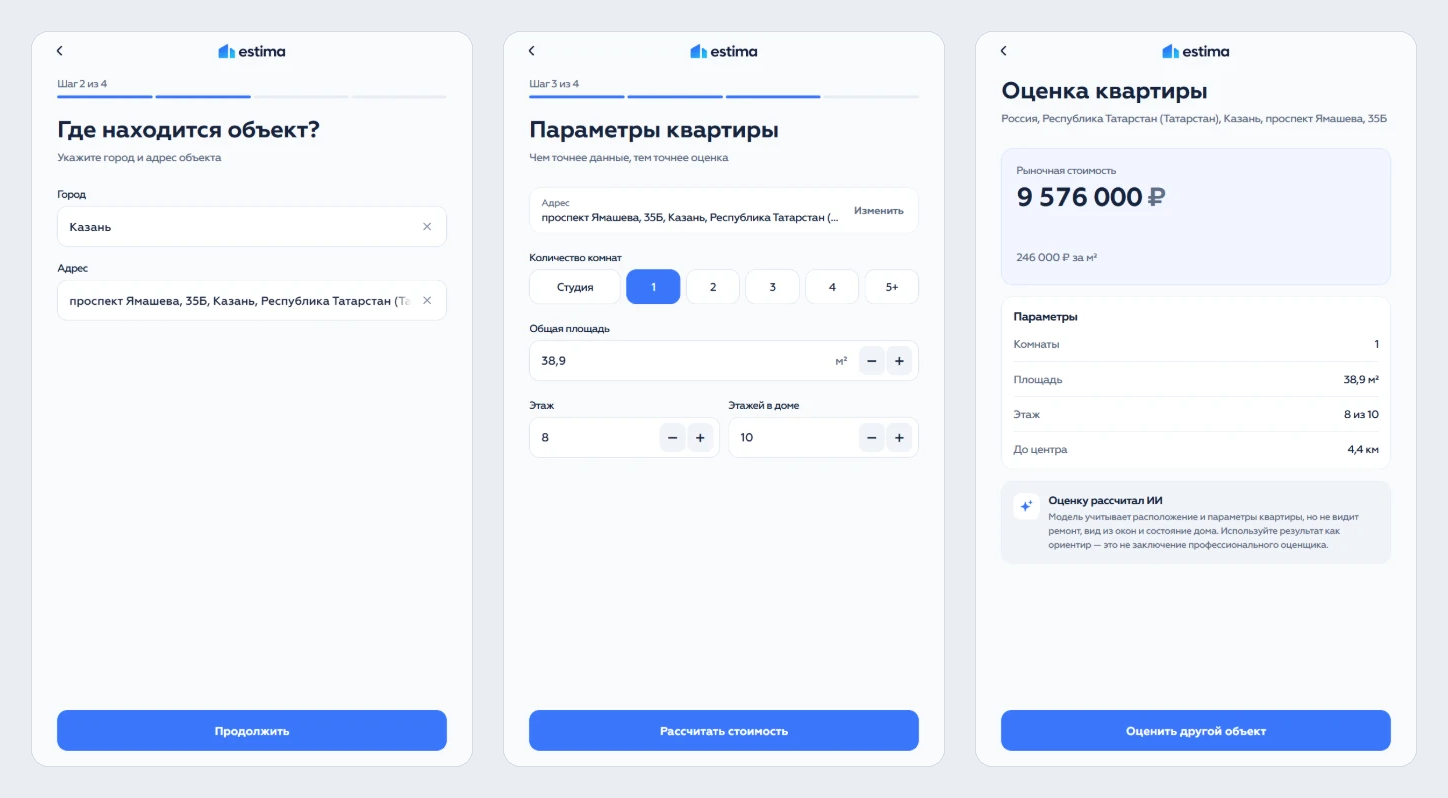
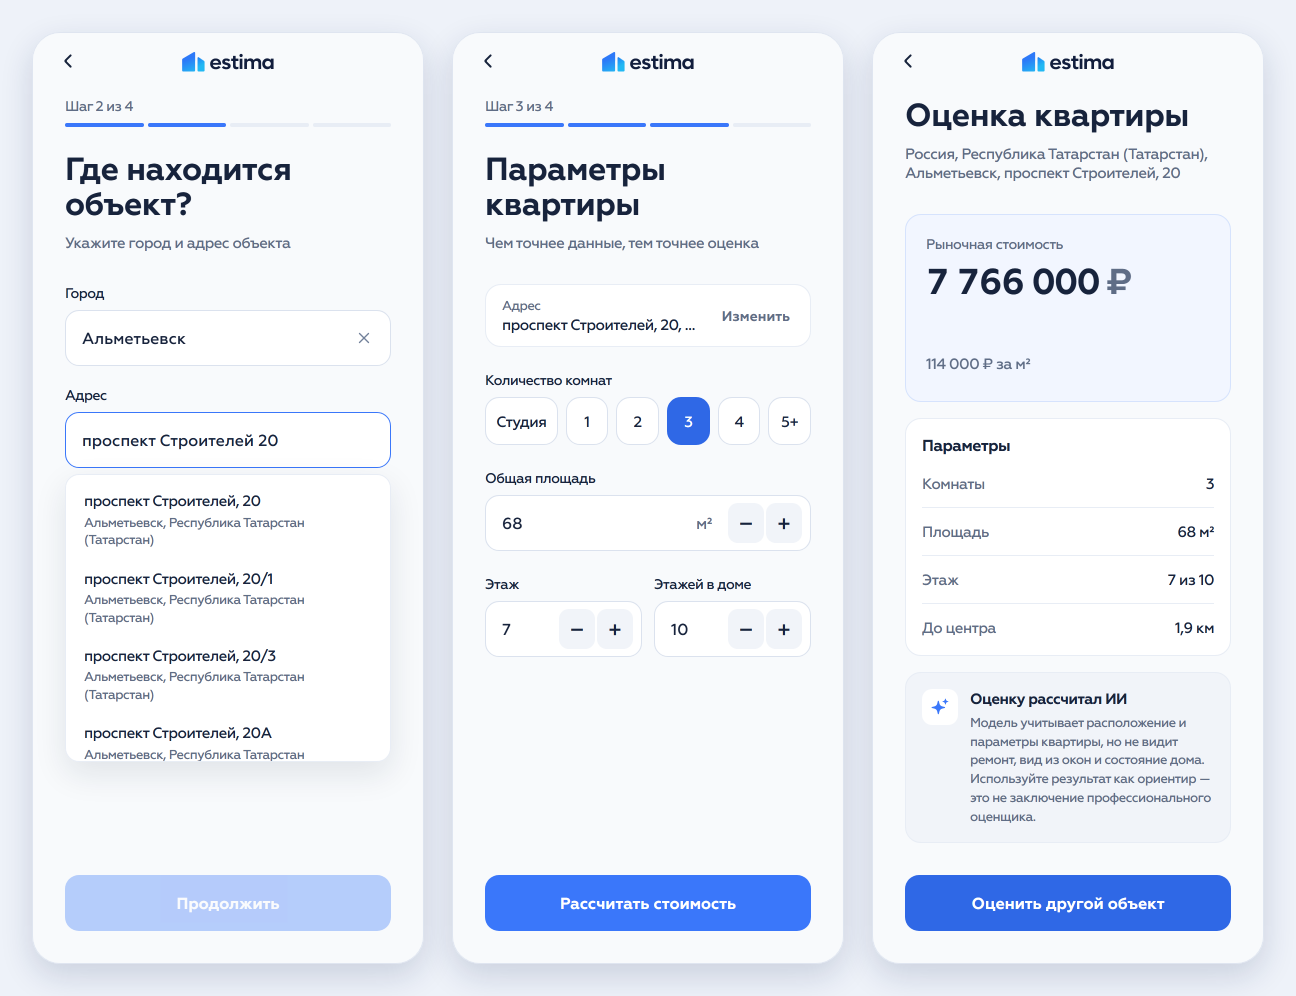
docs: edit README.md

diff --git a/README.md b/README.md
@@ -1,18 +1,19 @@
 <div align="center">
 
-# Estima
+# Estima · Backend
 
-**Оценка рыночной стоимости квартиры, дома или участка в пару кликов**
+**Оценка рыночной стоимости недвижимости в пару кликов**
 
-Выберите адрес, укажите параметры, и модель машинного обучения оценит цену<br>по тысячам реальных объявлений о продаже
+API и ML-модели: геокодинг адреса и оценка квартиры, дома или участка<br>по тысячам реальных объявлений о продаже
 
 [![Попробовать](https://img.shields.io/badge/Попробовать-estima-2F6BFF?style=for-the-badge)](https://estima-frontend-six.vercel.app/)
 [![Swagger](https://img.shields.io/badge/API-Swagger-85EA2D?style=for-the-badge&logo=swagger&logoColor=black)](https://estima-backend.onrender.com/docs)
+[![Frontend](https://img.shields.io/badge/Frontend-GitHub-181717?style=for-the-badge&logo=github)](https://github.com/welldanov/estima-frontend)
 
 [![CI](https://github.com/welldanov/estima-backend/actions/workflows/ci.yml/badge.svg)](https://github.com/welldanov/estima-backend/actions/workflows/ci.yml)
 ![Python](https://img.shields.io/badge/Python-3.12-3776AB?logo=python&logoColor=white)
-![FastAPI](https://img.shields.io/badge/FastAPI-009688?logo=fastapi&logoColor=white)
-![CatBoost](https://img.shields.io/badge/CatBoost-FFCC00)
+![FastAPI](https://img.shields.io/badge/FastAPI-0.141-009688?logo=fastapi&logoColor=white)
+![CatBoost](https://img.shields.io/badge/CatBoost-1.2-FFCC00)
 
 </div>
 
@@ -43,13 +44,13 @@
 
 ```mermaid
 flowchart LR
-    A[~23 000 объявлений] --> B[Очистка и разбор]
+    A["~23 000 объявлений"] --> B["Очистка и разбор"]
     B --> C[(SQLite)]
-    C --> D[Признаки]
-    D --> E[3 модели CatBoost]
-    E --> F[FastAPI]
-    G[Yandex Maps] --> F
-    F --> H[Веб-клиент]
+    C --> D["Признаки"]
+    D --> E["3 модели CatBoost"]
+    E --> F["FastAPI"]
+    G["Yandex Maps"] --> F
+    F --> H["Веб-клиент"]
 ```
 
 Самое интересное под капотом:
